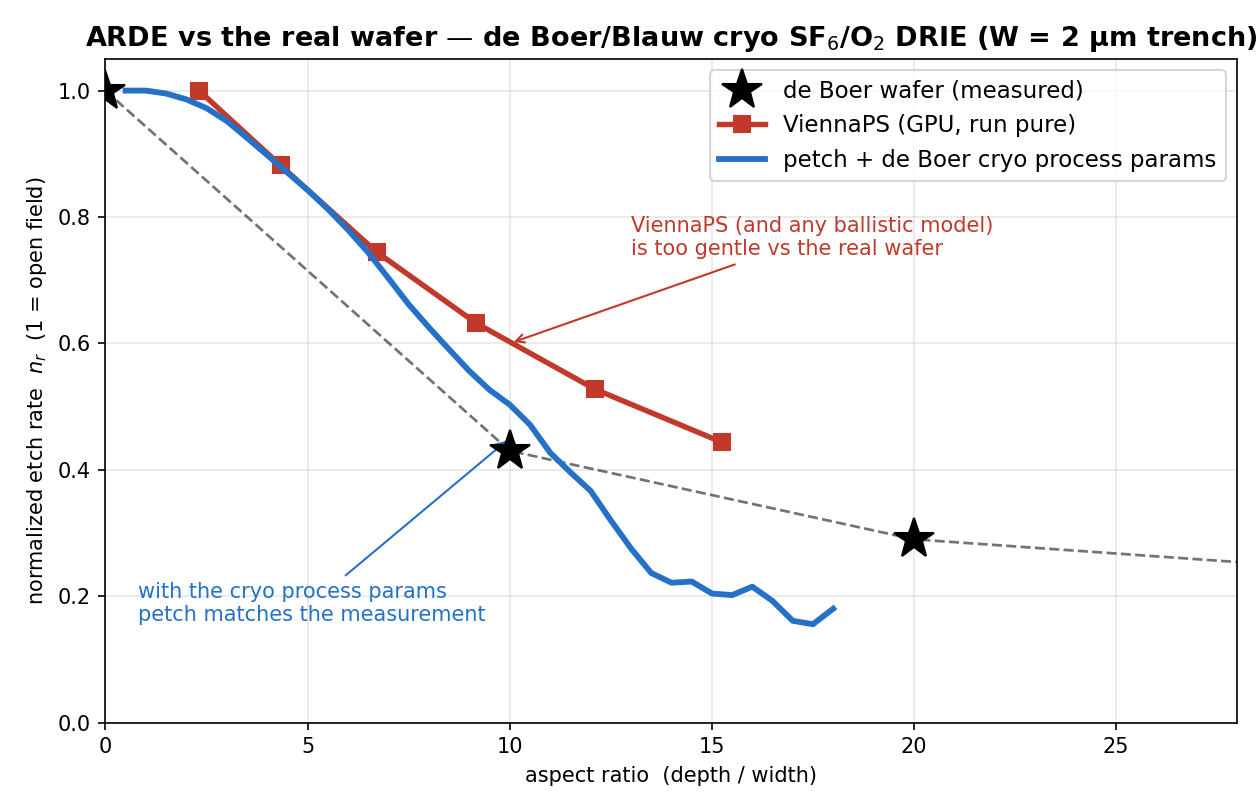
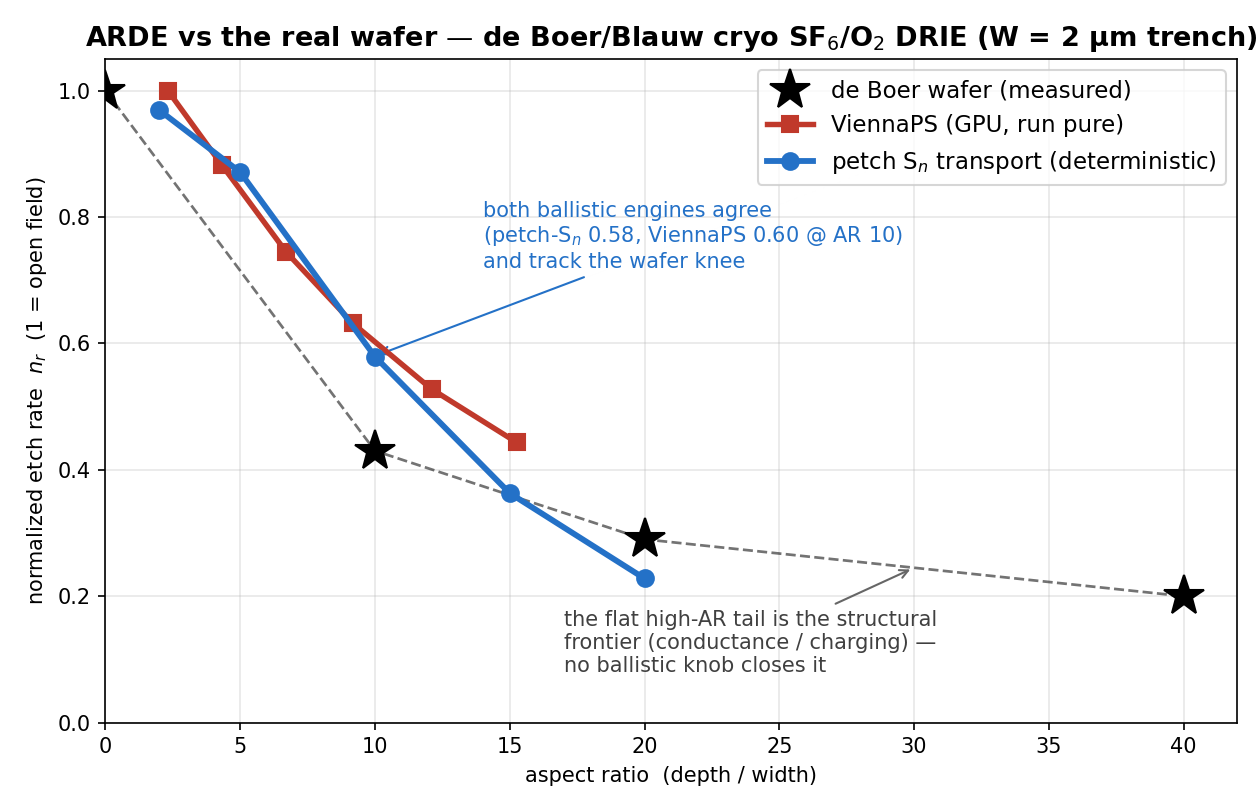
viz: regenerate experiment_arde with honest curves (retire stale cal_F cryo line)
Figure now plots only data reproducible with current code: de Boer wafer +
pure ViennaPS + petch Sn ('dda') transport at W=2um. The old petch-cryo
line was built on the removed cal_F knob; caption simplified to match.

diff --git a/docs/experimental-validation.html b/docs/experimental-validation.html
@@ -80,8 +80,8 @@ $$R_E \;\approx\; \frac{K^{\rm AR}}{K^{\rm AR} + S_F - K^{\rm AR}\,S_F},$$
 <p>The form above contains the entire reaction- vs. transport-limited story. At <strong>low ion flux</strong> the floor is reaction-limited and the etch is nearly AR-independent (flat ARDE). At <strong>high ion flux</strong> the floor consumes fluorine faster than conductance can deliver it, so the etch becomes F-transport-limited and ARDE turns steep. Note the limit \(S_F\to0 \Rightarrow R_E\to 1/K^{\rm AR}\): lower floor sticking gives a <em>flatter</em> ARDE. This is the quantitative version of the "neutral-limited vs. F-saturated" diagnosis that runs through our whole calibration story — and a dataset like this, which sweeps opening width at known \(S_F\), is the only way to test that we land in the right regime rather than just matching one depth.</p>
 </div>
 <figure>
-<img src="experiment_arde.png" alt="ARDE vs aspect ratio: de Boer measured wafer, a ballistic model (petch ≈ ViennaPS) that is too gentle, and petch with cryo process params reproducing the measurement." style="max-width:100%;border:1px solid #e0ddd2;border-radius:8px">
-<figcaption>The measured de Boer/Blauw cryo SF<sub>6</sub>/O<sub>2</sub> wafer (stars) versus <strong>pure <a href="viennaps-validation.html">ViennaPS</a></strong> on the same W&nbsp;=&nbsp;2&nbsp;µm trench (red, GPU) and petch. ViennaPS — the open-source SOTA — sits well <em>above</em> the real wafer (AR&nbsp;10: 0.60 vs the measured 0.43): a ballistic feature-scale model that ignores gas-phase conductance and charging cannot reproduce a real wafer's roll-off. petch sits in the <em>same</em> ballistic regime — the deterministic <a href="viennaps-validation.html">DDA transport (§7)</a> gives 0.58 at AR&nbsp;10, straddling the wafer and agreeing with ViennaPS's 0.60; the blue cryo curve here (etchant-starved flux, sub-degree IADF) used the earlier <code>cal_F</code> flux-normalization to track the knee. Either way the <strong>high-AR tail (AR&nbsp;&gt;&nbsp;20) is the structural frontier</strong> — a sustained reaction-limited floor neither ballistic code carries, and which the cryo process knobs (narrow IADF, etchant starvation) do <em>not</em> close. A deterministic DDA neutral transport and a Knudsen-conductance tail are now ported into petch (the latter pending calibration).</figcaption>
+<img src="experiment_arde.png" alt="ARDE vs aspect ratio: de Boer measured wafer, pure ViennaPS, and petch's deterministic Sn transport — the two ballistic engines agree with each other and track the wafer knee, but neither carries the flat high-AR tail." style="max-width:100%;border:1px solid #e0ddd2;border-radius:8px">
+<figcaption>The measured de Boer/Blauw cryo SF<sub>6</sub>/O<sub>2</sub> wafer (stars) versus <strong>pure <a href="viennaps-validation.html">ViennaPS</a></strong> on the same W&nbsp;=&nbsp;2&nbsp;µm trench (red, GPU) and <strong>petch's deterministic S<sub>n</sub> transport</strong> (blue, <a href="viennaps-validation.html">validation §7</a>). The two independent ballistic engines <em>agree with each other</em> (AR&nbsp;10: petch-S<sub>n</sub> 0.58 vs ViennaPS 0.60) and track the wafer through the knee, but the measured 0.43 sits below both, and the wafer's <strong>flat high-AR tail (AR&nbsp;&gt;&nbsp;20) is the structural frontier</strong>: a sustained reaction-limited floor that ballistic transport — with any knob (narrow IADF, etchant starvation; both tested) — does not produce. The missing physics is gas-phase conductance and/or charging; a Knudsen-conductance tail is ported into petch and its calibration against this wafer is the active work. (An earlier version of this figure showed a "petch-cryo" curve built on the since-removed <code>cal_F</code> flux normalization — retired for honesty.)</figcaption>
 </figure>
 
 <h3>#3 — Hoekstra &amp; Kushner 1998: microtrenching (the ion-reflection anchor)</h3>

diff --git a/scripts/plot_experiment.py b/scripts/plot_experiment.py
@@ -1,36 +1,44 @@
 #!/usr/bin/env python3
 """Experimental ARDE: the measured de Boer/Blauw wafer vs PURE ViennaPS (run on the same W=2µm trench
-geometry) and petch with the cryo process params. Shows the empirical data points, the open-source SOTA
-sitting too gentle above the wafer, and petch reproducing the measurement. Writes viz/ + docs/."""
+geometry) and petch's deterministic discrete-ordinates (Sn) transport ("dda") on the same width.
+All three are reproducible with current code: ViennaPS from vps_deboer.npz (real GPU run),
+petch-DDA from dda_vs_mc_arde.npz (static nr(AR), W=2µm, neutral_transport='dda', ion_reflection).
+
+The honest story this figure tells: both ballistic engines agree with each other and track the wafer
+through the knee (petch-DDA 0.58 / ViennaPS 0.60 vs measured 0.43 at AR10), but the wafer's flat
+high-AR tail is a structural gap (gas conductance / charging) that no ballistic knob closes.
+(An earlier version showed a 'petch-cryo' curve built on the removed cal_F knob — retired.)
+Writes viz/ + docs/."""
 import os, numpy as np
-from scipy.ndimage import uniform_filter1d
 import matplotlib; matplotlib.use("Agg")
 import matplotlib.pyplot as plt
 
 here = os.path.dirname(__file__)
 db = np.load(os.path.join(here, "..", "deboer_final.npz"))
-ar_b, nr_b = db['ar_b'], db['nr_b']                       # petch + de Boer cryo process params
-exp_ar, exp_r = db['exp_ar'], db['exp_r']                 # measured wafer
+exp_ar, exp_r = db['exp_ar'], db['exp_r']                 # measured wafer (de Boer/Blauw)
 vd = np.load(os.path.join(here, "..", "vps_deboer.npz"))  # PURE ViennaPS on the W=2µm de Boer trench
 W = float(vd['W']); dur, dep = vd['dur'], vd['dep']
 vps_ar = 0.5*(dep[1:]+dep[:-1])/W; vps_nr = np.diff(dep)/np.diff(dur); vps_nr = vps_nr/vps_nr[0]
-sm = lambda y: uniform_filter1d(y, 5, mode="nearest")
+dd = np.load(os.path.join(here, "..", "dda_vs_mc_arde.npz"))  # petch Sn ("dda"), static, W=2µm
+dda_ar, dda_nr = dd['ar2'], dd['petch_dda_w2']
 
 fig, ax = plt.subplots(figsize=(8.4, 5.4))
 ax.plot(exp_ar, exp_r, "k*", ms=20, label="de Boer wafer (measured)", zorder=6)
 ax.plot(exp_ar, exp_r, "k--", lw=1.3, alpha=0.55, zorder=2)
 ax.plot(vps_ar, vps_nr, "s-", color="#c0392b", lw=2.6, ms=8, label="ViennaPS (GPU, run pure)", zorder=4)
-mb = (ar_b <= 20) & np.isfinite(nr_b)
-ax.plot(ar_b[mb], sm(nr_b)[mb], "-", color="#2471c7", lw=2.8, label="petch + de Boer cryo process params", zorder=5)
+ax.plot(dda_ar, dda_nr, "o-", color="#2471c7", lw=2.8, ms=8,
+        label="petch S$_n$ transport (deterministic)", zorder=5)
 ax.set_xlabel("aspect ratio  (depth / width)"); ax.set_ylabel("normalized etch rate  $n_r$  (1 = open field)")
-ax.set_xlim(0, 28); ax.set_ylim(0, 1.05); ax.grid(alpha=0.3); ax.legend(loc="upper right", fontsize=11)
+ax.set_xlim(0, 42); ax.set_ylim(0, 1.05); ax.grid(alpha=0.3); ax.legend(loc="upper right", fontsize=11)
 ax.set_title("ARDE vs the real wafer — de Boer/Blauw cryo SF$_6$/O$_2$ DRIE (W = 2 µm trench)",
              fontsize=13, fontweight="bold")
-ax.annotate("ViennaPS (and any ballistic model)\nis too gentle vs the real wafer", xy=(10, 0.6), xytext=(13, 0.74),
-            fontsize=10, color="#c0392b", ha="left", arrowprops=dict(arrowstyle="->", color="#c0392b"))
-ax.annotate("with the cryo process params\npetch matches the measurement", xy=(10, 0.45), xytext=(0.8, 0.16),
-            fontsize=10, color="#2471c7", arrowprops=dict(arrowstyle="->", color="#2471c7"))
+ax.annotate("both ballistic engines agree\n(petch-S$_n$ 0.58, ViennaPS 0.60 @ AR 10)\nand track the wafer knee",
+            xy=(10, 0.58), xytext=(14, 0.72), fontsize=10, color="#2471c7",
+            arrowprops=dict(arrowstyle="->", color="#2471c7"))
+ax.annotate("the flat high-AR tail is the structural\nfrontier (conductance / charging) —\nno ballistic knob closes it",
+            xy=(30, 0.245), xytext=(17, 0.08), fontsize=10, color="0.25",
+            arrowprops=dict(arrowstyle="->", color="0.4"))
 plt.tight_layout()
 for p in [os.path.join(here, "..", "viz", "experiment_arde.png"), os.path.join(here, "..", "docs", "experiment_arde.png")]:
     plt.savefig(p, dpi=150); print("saved", p)
-print(f"\nAR10: wafer {exp_r[1]} | ViennaPS {np.interp(10,vps_ar,vps_nr):.2f} | petch-cryo {np.interp(10,ar_b,nr_b):.2f}")
+print(f"\nAR10: wafer {exp_r[1]} | ViennaPS {np.interp(10,vps_ar,vps_nr):.2f} | petch-Sn {np.interp(10,dda_ar,dda_nr):.2f}")